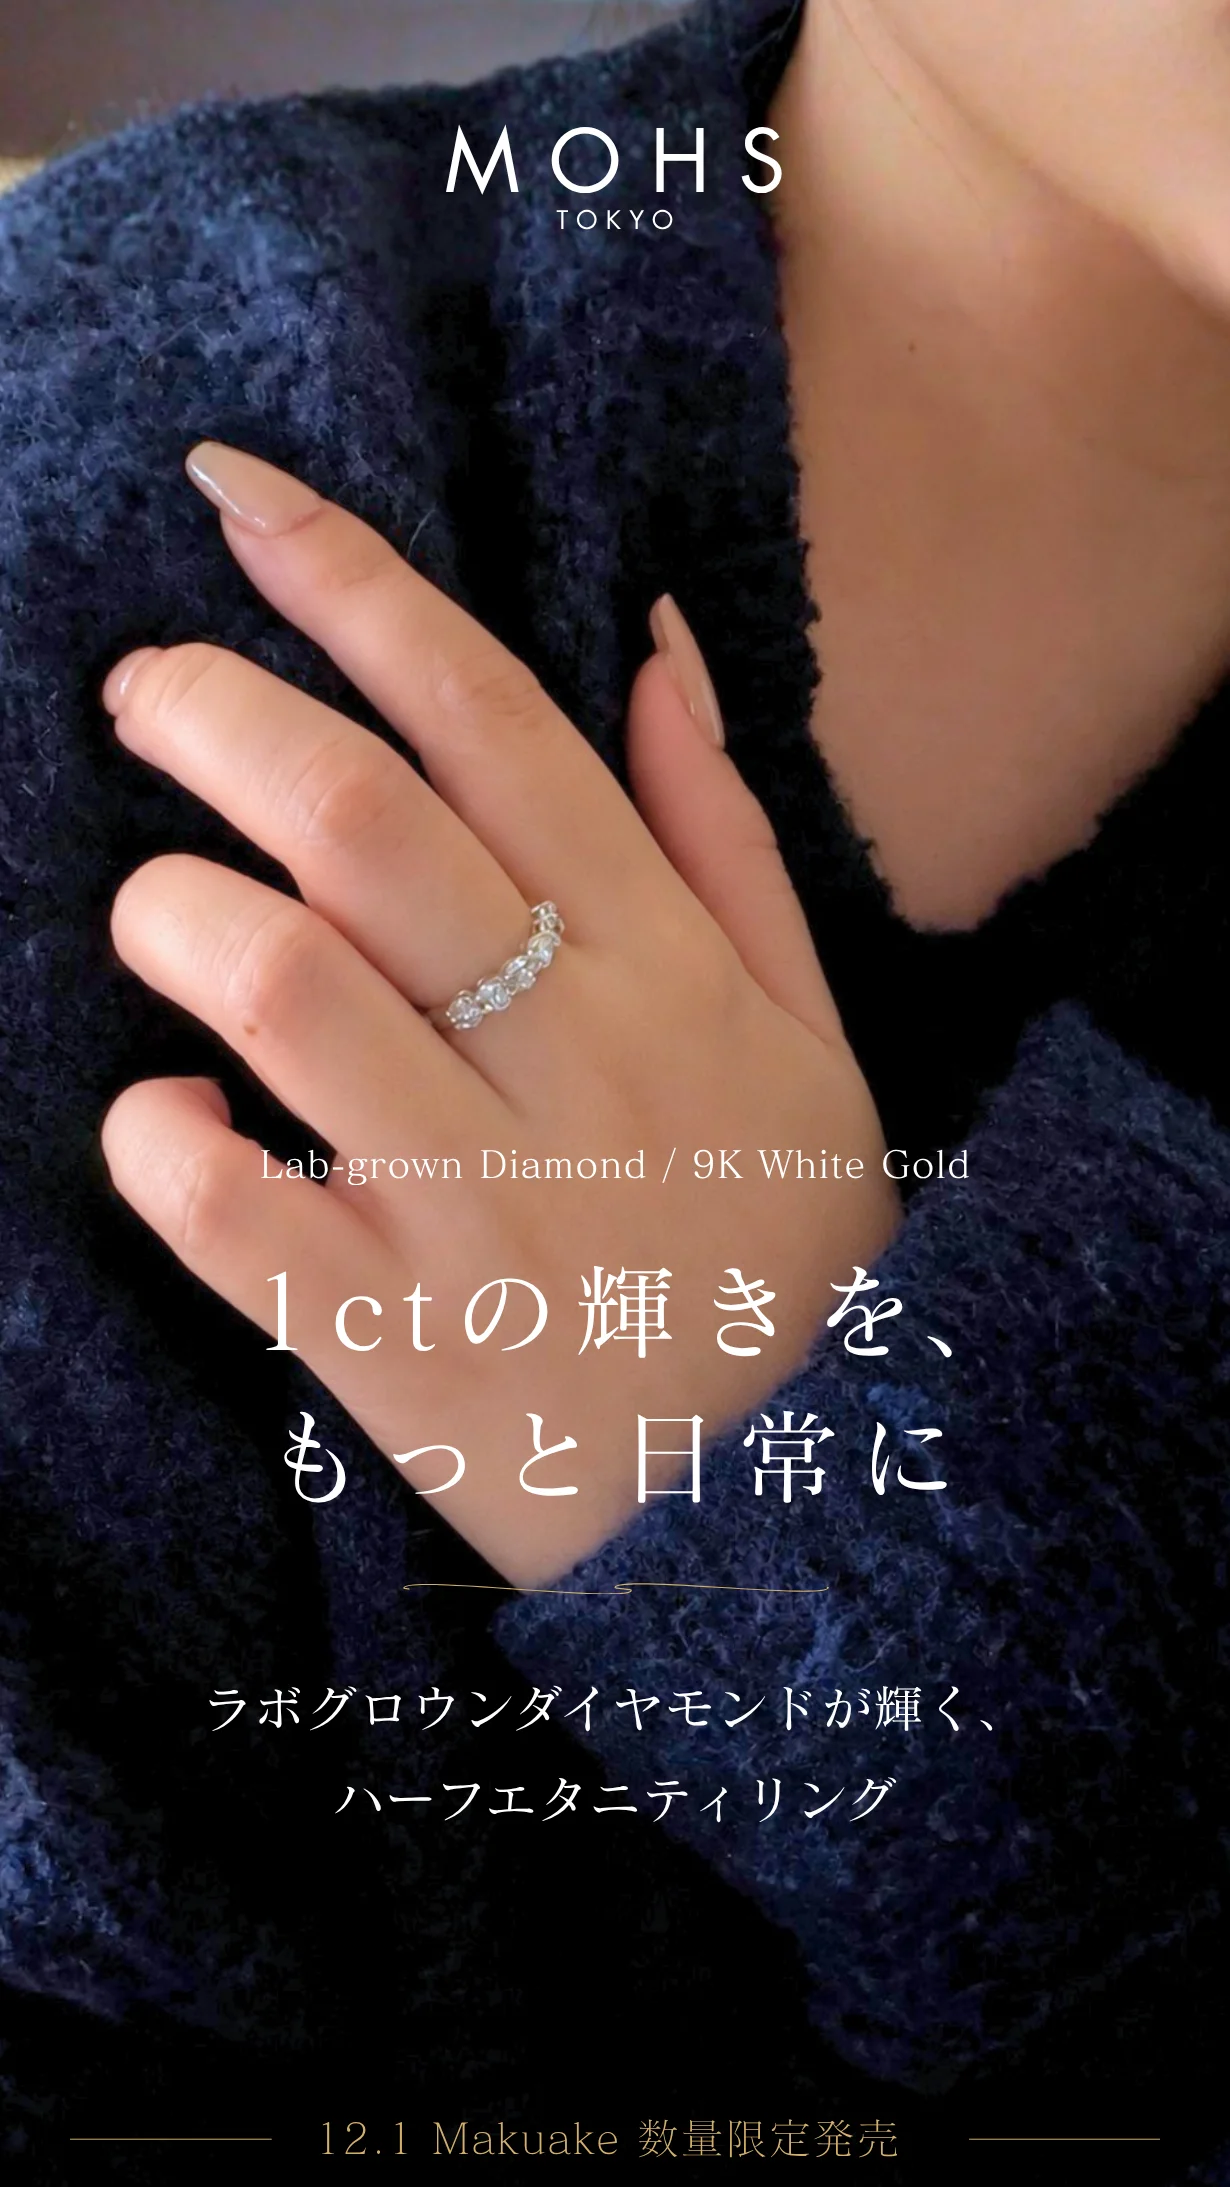
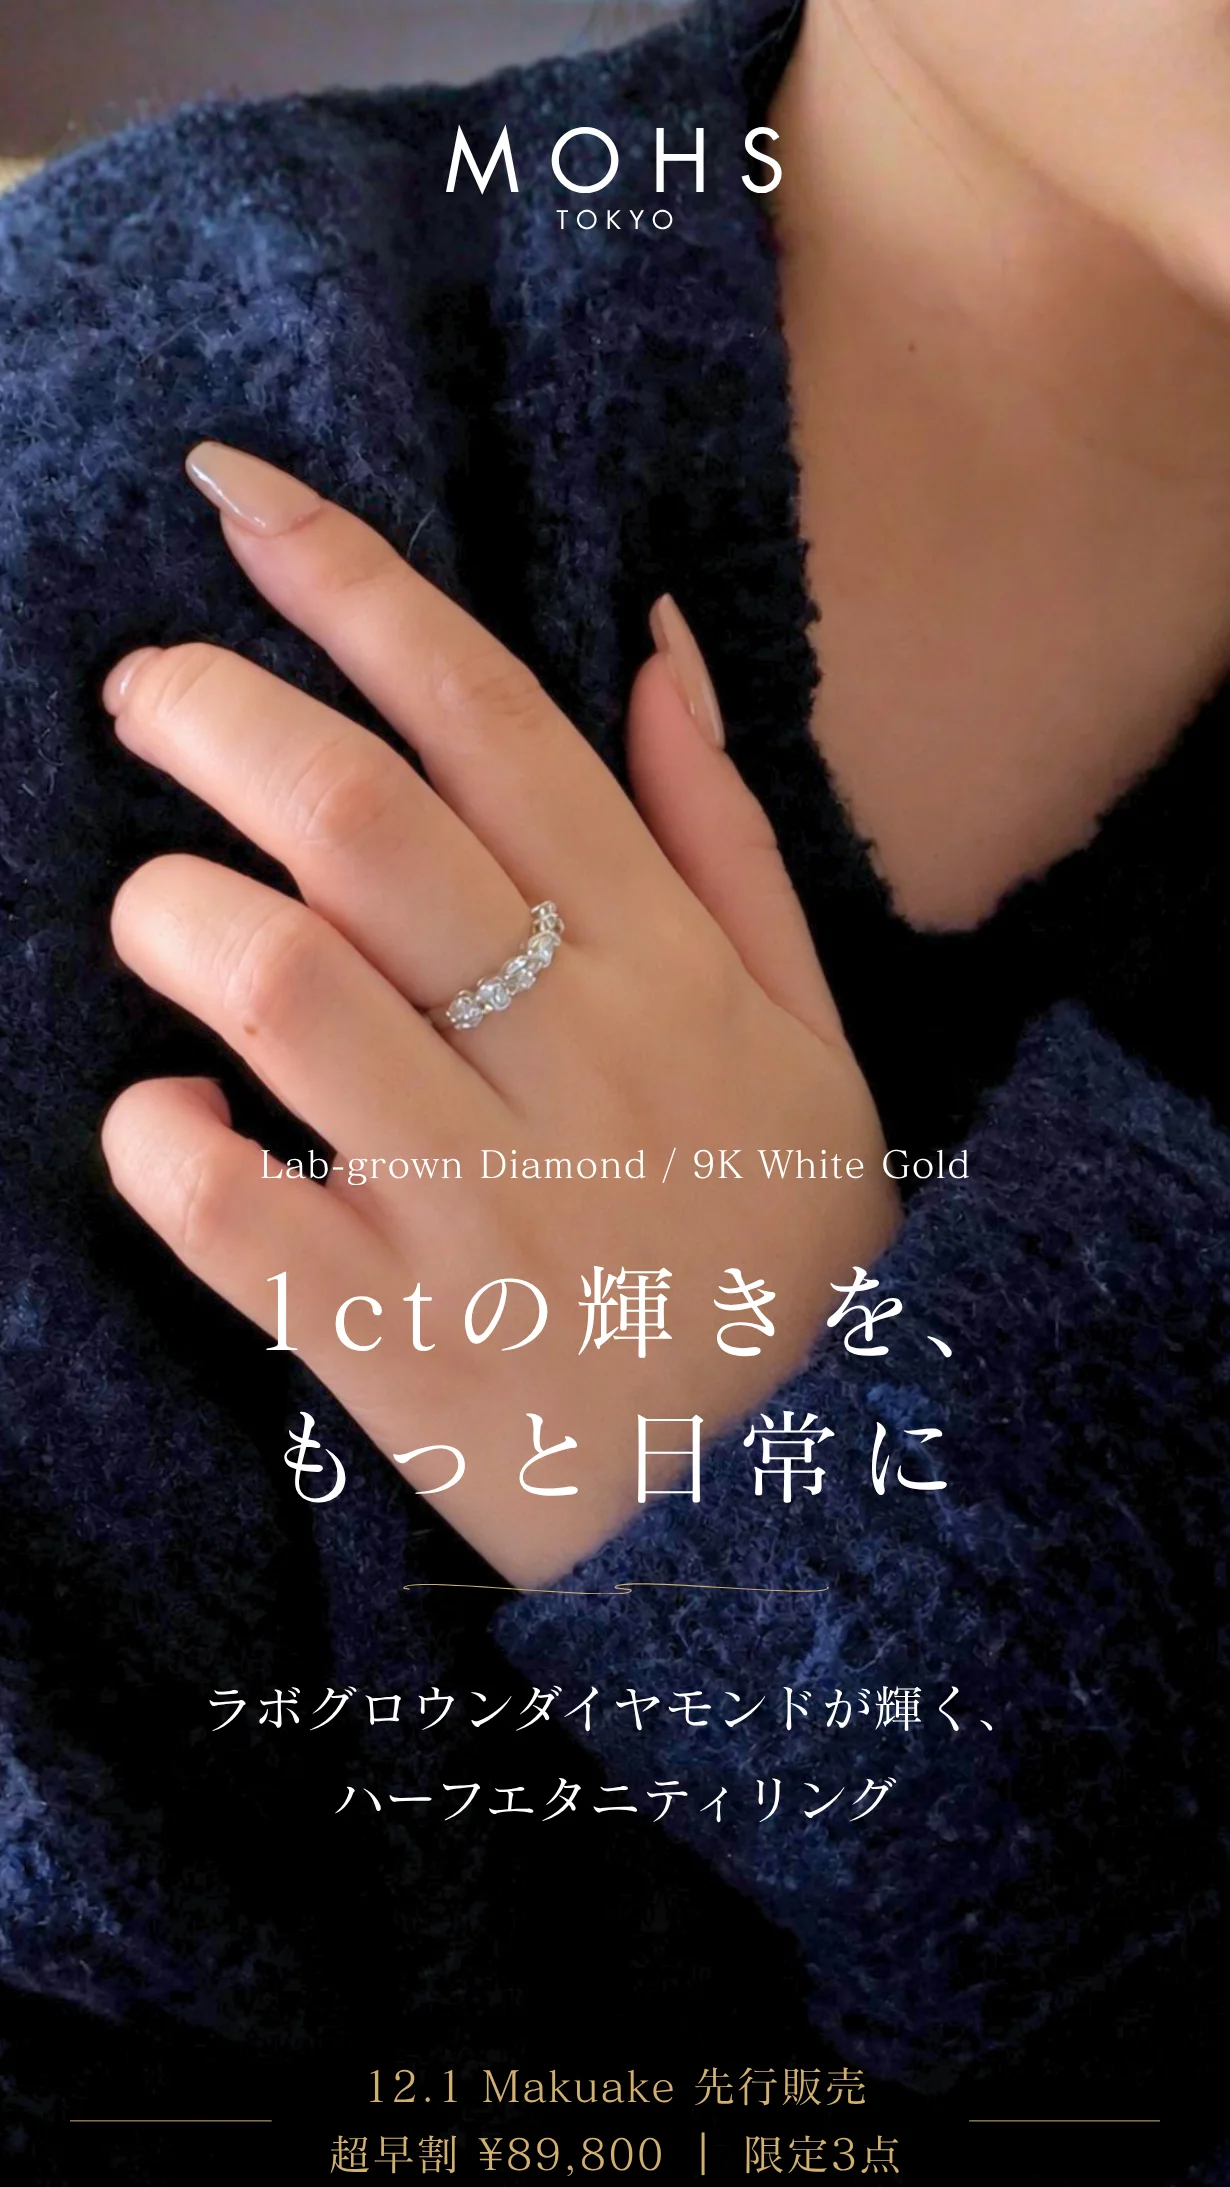
FVを超早割価格・限定数入りのクリエイティブに差し替え

Changed region(s): [[0.2472, 0.9328, 0.7415, 0.995]]

diff --git a/index.html b/index.html
@@ -22,7 +22,7 @@
 .line-float.is-visible{opacity:1;visibility:visible;transform:none}
 .line-float svg{width:32px;height:auto}
 @media(prefers-reduced-motion:reduce){.line-float{transition:none}}
-</style></head><body><main aria-label="MOHS ハーフエタニティリング"><div class="hero-banner"><img src="assets/fv-main.webp" width="1230" height="2187" alt="MOHS 1ctの輝きを、もっと日常に ラボグロウンダイヤモンドが輝く、ハーフエタニティリング 12.1 Makuake 数量限定発売" loading="eager" decoding="async"><a class="line-cta" href="https://lin.ee/tXXrxcO" target="_blank" rel="noopener noreferrer"><span>LINE登録でお得に</span><span class="cta-arrow" aria-hidden="true"></span></a></div><img src="assets/fv-copy.webp" width="1230" height="1230" alt="仕事の日も、休日も なんでもない日を、ほんの少し特別に。ふと目に入るたびに嬉しくなる。いつもの装いのなかに大粒ダイヤモンドの輝きを。6石で合計1ct IGI鑑定書付き ハーフエタニティリング" loading="eager" decoding="async"><img src="assets/2.webp" width="1230" height="1640" alt="MOHS 商品紹介 3" loading="eager" decoding="async"><div class="sale-banner"><img src="assets/2_pre.png" width="1204" height="1306" alt="MOHS 商品紹介 2" loading="eager" decoding="async"><a class="line-cta" href="https://lin.ee/tXXrxcO" target="_blank" rel="noopener noreferrer"><span>LINE登録でお得に</span><span class="cta-arrow" aria-hidden="true"></span></a></div><img src="assets/3.gif" width="492" height="492" alt="MOHS 商品紹介 4" loading="lazy" decoding="async"><img src="assets/4.webp" width="1230" height="820" alt="MOHS 商品紹介 5" loading="lazy" decoding="async"><img src="assets/5.webp" width="1230" height="350" alt="MOHS 商品紹介 6" loading="lazy" decoding="async"><img src="assets/6.webp" width="1230" height="2984" alt="MOHS 商品紹介 7" loading="lazy" decoding="async"><img src="assets/7.webp" width="1230" height="350" alt="MOHS 商品紹介 8" loading="lazy" decoding="async"><img src="assets/8.webp" width="1230" height="2984" alt="MOHS 商品紹介 9" loading="lazy" decoding="async"><img src="assets/9.gif" width="738" height="984" alt="MOHS 商品紹介 10" loading="lazy" decoding="async"><img src="assets/10.webp" width="1230" height="820" alt="MOHS 商品紹介 11" loading="lazy" decoding="async"><img src="assets/11.webp" width="1230" height="2984" alt="MOHS 商品紹介 12" loading="lazy" decoding="async"><img src="assets/12.webp" width="1230" height="1230" alt="MOHS 商品紹介 13" loading="lazy" decoding="async"><img src="assets/13.webp" width="1230" height="350" alt="MOHS 商品紹介 14" loading="lazy" decoding="async"><img src="assets/14.webp" width="1230" height="2984" alt="MOHS 商品紹介 15" loading="lazy" decoding="async"><img src="assets/15.webp" width="1230" height="350" alt="MOHS 商品紹介 16" loading="lazy" decoding="async"><img src="assets/16.webp" width="1230" height="1640" alt="MOHS 商品紹介 17" loading="lazy" decoding="async"><img src="assets/17.webp" width="1230" height="350" alt="MOHS 商品紹介 18" loading="lazy" decoding="async"><img src="assets/18.webp" width="1230" height="2984" alt="MOHS 商品紹介 19" loading="lazy" decoding="async"><img src="assets/19.webp" width="1230" height="350" alt="MOHS 商品紹介 20" loading="lazy" decoding="async"><img src="assets/20.webp" width="1230" height="1230" alt="MOHS 商品紹介 21" loading="lazy" decoding="async"><img src="assets/21.webp" width="1230" height="820" alt="MOHS 商品紹介 22" loading="lazy" decoding="async"><img src="assets/22.webp" width="1230" height="2984" alt="MOHS 商品紹介 23" loading="lazy" decoding="async"><aside class="quality-notes" aria-label="ダイヤモンドの品質と鑑定書についての注意事項"><p>※上記グレードは仕入れ元の品質基準です。カットグレードは鑑定書には記載されていません。</p><p>※鑑定書は完成品のリングに対して発行されるもので、一石ごとに付属するものではありません。</p></aside><img src="assets/23.webp" width="1230" height="350" alt="MOHS 商品紹介 24" loading="lazy" decoding="async"><div class="origin-copy"><p>世界各地から宝石やバイヤーが集まるタイは、ジュエリーの製造・取引で世界的に知られる拠点のひとつです。</p></div><img src="assets/24.webp" width="1230" height="1640" alt="MOHS 商品紹介 25" loading="lazy" decoding="async"><div class="origin-copy"><p>旅行先のこの地で、ラボグロウンダイヤモンドのジュエリーを手に取りました。</p><p>その美しさと、ダイヤモンドをもっと身近に楽しめる選択肢があることに、心を動かされました。</p><p><strong>「この輝きを、もっと日常の中で楽しめたら。」</strong></p><p>帰国後もその思いは変わらず、素材や品質、価格について検討を重ねました。</p></div><img src="assets/25.webp" width="1230" height="820" alt="MOHS 商品紹介 26" loading="lazy" decoding="async"><div class="origin-copy"><p>タイで出会ったジュエラーとのやり取りを通じて、その思いを形にしたのが、MOHS JEWELRYの最初のリングです。</p></div><img src="assets/26.webp" width="1230" height="350" alt="MOHS 商品紹介 27" loading="lazy" decoding="async"><img src="assets/27.webp" width="1230" height="1230" alt="MOHS 商品紹介 28" loading="lazy" decoding="async"><img src="assets/28.webp" width="1230" height="1230" alt="MOHS 商品紹介 29" loading="lazy" decoding="async"><img src="assets/29.webp" width="1230" height="1230" alt="MOHS 商品紹介 30" loading="lazy" decoding="async"><img src="assets/30.webp" width="1230" height="1640" alt="MOHS 商品紹介 31" loading="lazy" decoding="async"><img src="assets/31.webp" width="1230" height="1640" alt="MOHS 商品紹介 32" loading="lazy" decoding="async"><img src="assets/32.webp" width="1230" height="350" alt="MOHS 商品紹介 33" loading="lazy" decoding="async"><section class="detail-copy" aria-label="お届け後のサポートの詳細">
+</style></head><body><main aria-label="MOHS ハーフエタニティリング"><div class="hero-banner"><img src="assets/fv-main.webp" width="1230" height="2187" alt="MOHS 1ctの輝きを、もっと日常に ラボグロウンダイヤモンドが輝く、ハーフエタニティリング 12.1 Makuake 先行販売 超早割 ¥89,800 限定3点" loading="eager" decoding="async"><a class="line-cta" href="https://lin.ee/tXXrxcO" target="_blank" rel="noopener noreferrer"><span>LINE登録でお得に</span><span class="cta-arrow" aria-hidden="true"></span></a></div><img src="assets/fv-copy.webp" width="1230" height="1230" alt="仕事の日も、休日も なんでもない日を、ほんの少し特別に。ふと目に入るたびに嬉しくなる。いつもの装いのなかに大粒ダイヤモンドの輝きを。6石で合計1ct IGI鑑定書付き ハーフエタニティリング" loading="eager" decoding="async"><img src="assets/2.webp" width="1230" height="1640" alt="MOHS 商品紹介 3" loading="eager" decoding="async"><div class="sale-banner"><img src="assets/2_pre.png" width="1204" height="1306" alt="MOHS 商品紹介 2" loading="eager" decoding="async"><a class="line-cta" href="https://lin.ee/tXXrxcO" target="_blank" rel="noopener noreferrer"><span>LINE登録でお得に</span><span class="cta-arrow" aria-hidden="true"></span></a></div><img src="assets/3.gif" width="492" height="492" alt="MOHS 商品紹介 4" loading="lazy" decoding="async"><img src="assets/4.webp" width="1230" height="820" alt="MOHS 商品紹介 5" loading="lazy" decoding="async"><img src="assets/5.webp" width="1230" height="350" alt="MOHS 商品紹介 6" loading="lazy" decoding="async"><img src="assets/6.webp" width="1230" height="2984" alt="MOHS 商品紹介 7" loading="lazy" decoding="async"><img src="assets/7.webp" width="1230" height="350" alt="MOHS 商品紹介 8" loading="lazy" decoding="async"><img src="assets/8.webp" width="1230" height="2984" alt="MOHS 商品紹介 9" loading="lazy" decoding="async"><img src="assets/9.gif" width="738" height="984" alt="MOHS 商品紹介 10" loading="lazy" decoding="async"><img src="assets/10.webp" width="1230" height="820" alt="MOHS 商品紹介 11" loading="lazy" decoding="async"><img src="assets/11.webp" width="1230" height="2984" alt="MOHS 商品紹介 12" loading="lazy" decoding="async"><img src="assets/12.webp" width="1230" height="1230" alt="MOHS 商品紹介 13" loading="lazy" decoding="async"><img src="assets/13.webp" width="1230" height="350" alt="MOHS 商品紹介 14" loading="lazy" decoding="async"><img src="assets/14.webp" width="1230" height="2984" alt="MOHS 商品紹介 15" loading="lazy" decoding="async"><img src="assets/15.webp" width="1230" height="350" alt="MOHS 商品紹介 16" loading="lazy" decoding="async"><img src="assets/16.webp" width="1230" height="1640" alt="MOHS 商品紹介 17" loading="lazy" decoding="async"><img src="assets/17.webp" width="1230" height="350" alt="MOHS 商品紹介 18" loading="lazy" decoding="async"><img src="assets/18.webp" width="1230" height="2984" alt="MOHS 商品紹介 19" loading="lazy" decoding="async"><img src="assets/19.webp" width="1230" height="350" alt="MOHS 商品紹介 20" loading="lazy" decoding="async"><img src="assets/20.webp" width="1230" height="1230" alt="MOHS 商品紹介 21" loading="lazy" decoding="async"><img src="assets/21.webp" width="1230" height="820" alt="MOHS 商品紹介 22" loading="lazy" decoding="async"><img src="assets/22.webp" width="1230" height="2984" alt="MOHS 商品紹介 23" loading="lazy" decoding="async"><aside class="quality-notes" aria-label="ダイヤモンドの品質と鑑定書についての注意事項"><p>※上記グレードは仕入れ元の品質基準です。カットグレードは鑑定書には記載されていません。</p><p>※鑑定書は完成品のリングに対して発行されるもので、一石ごとに付属するものではありません。</p></aside><img src="assets/23.webp" width="1230" height="350" alt="MOHS 商品紹介 24" loading="lazy" decoding="async"><div class="origin-copy"><p>世界各地から宝石やバイヤーが集まるタイは、ジュエリーの製造・取引で世界的に知られる拠点のひとつです。</p></div><img src="assets/24.webp" width="1230" height="1640" alt="MOHS 商品紹介 25" loading="lazy" decoding="async"><div class="origin-copy"><p>旅行先のこの地で、ラボグロウンダイヤモンドのジュエリーを手に取りました。</p><p>その美しさと、ダイヤモンドをもっと身近に楽しめる選択肢があることに、心を動かされました。</p><p><strong>「この輝きを、もっと日常の中で楽しめたら。」</strong></p><p>帰国後もその思いは変わらず、素材や品質、価格について検討を重ねました。</p></div><img src="assets/25.webp" width="1230" height="820" alt="MOHS 商品紹介 26" loading="lazy" decoding="async"><div class="origin-copy"><p>タイで出会ったジュエラーとのやり取りを通じて、その思いを形にしたのが、MOHS JEWELRYの最初のリングです。</p></div><img src="assets/26.webp" width="1230" height="350" alt="MOHS 商品紹介 27" loading="lazy" decoding="async"><img src="assets/27.webp" width="1230" height="1230" alt="MOHS 商品紹介 28" loading="lazy" decoding="async"><img src="assets/28.webp" width="1230" height="1230" alt="MOHS 商品紹介 29" loading="lazy" decoding="async"><img src="assets/29.webp" width="1230" height="1230" alt="MOHS 商品紹介 30" loading="lazy" decoding="async"><img src="assets/30.webp" width="1230" height="1640" alt="MOHS 商品紹介 31" loading="lazy" decoding="async"><img src="assets/31.webp" width="1230" height="1640" alt="MOHS 商品紹介 32" loading="lazy" decoding="async"><img src="assets/32.webp" width="1230" height="350" alt="MOHS 商品紹介 33" loading="lazy" decoding="async"><section class="detail-copy" aria-label="お届け後のサポートの詳細">
 <p>長くご愛用いただけるよう、修理やサイズ直しなど、お届け後のご相談も承ります。</p>
 <h3>品質保証</h3><p>お届け時に初期不良が認められた場合は、無償で修理または交換いたします。商品到着後14日以内にご連絡ください。</p>
 <h3>修理・サイズ直し</h3><p>ご使用による傷・変形・破損や、サイズ直しは有償で承ります。対応の可否や費用は、リングの状態により異なります。</p>
